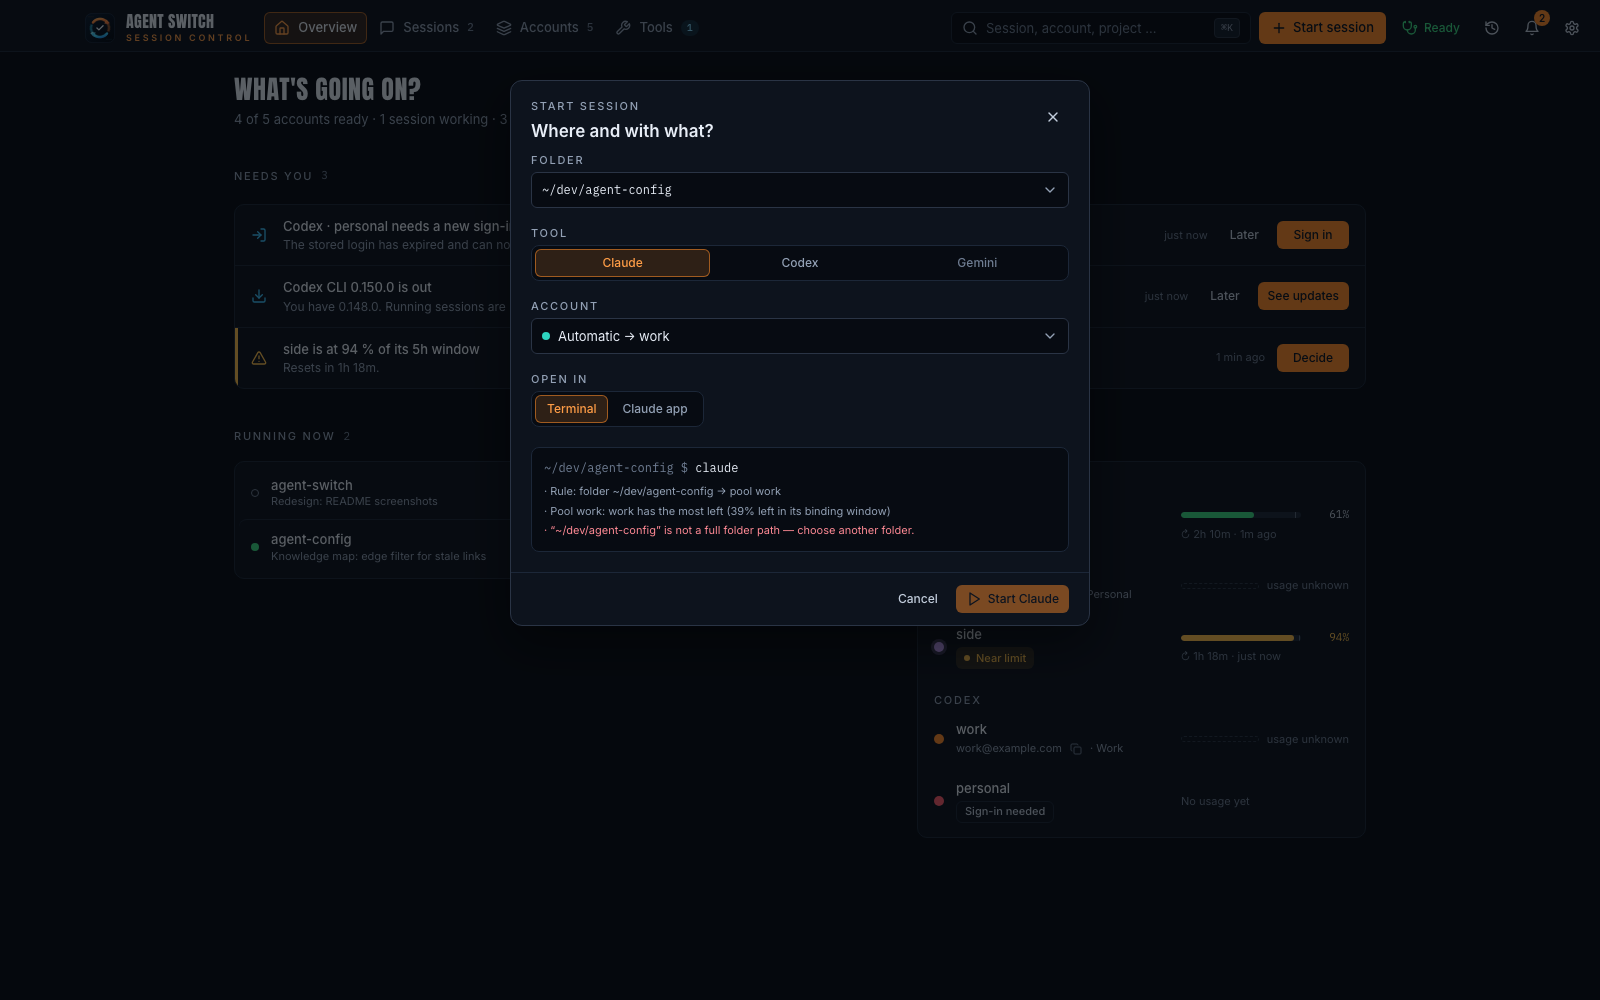
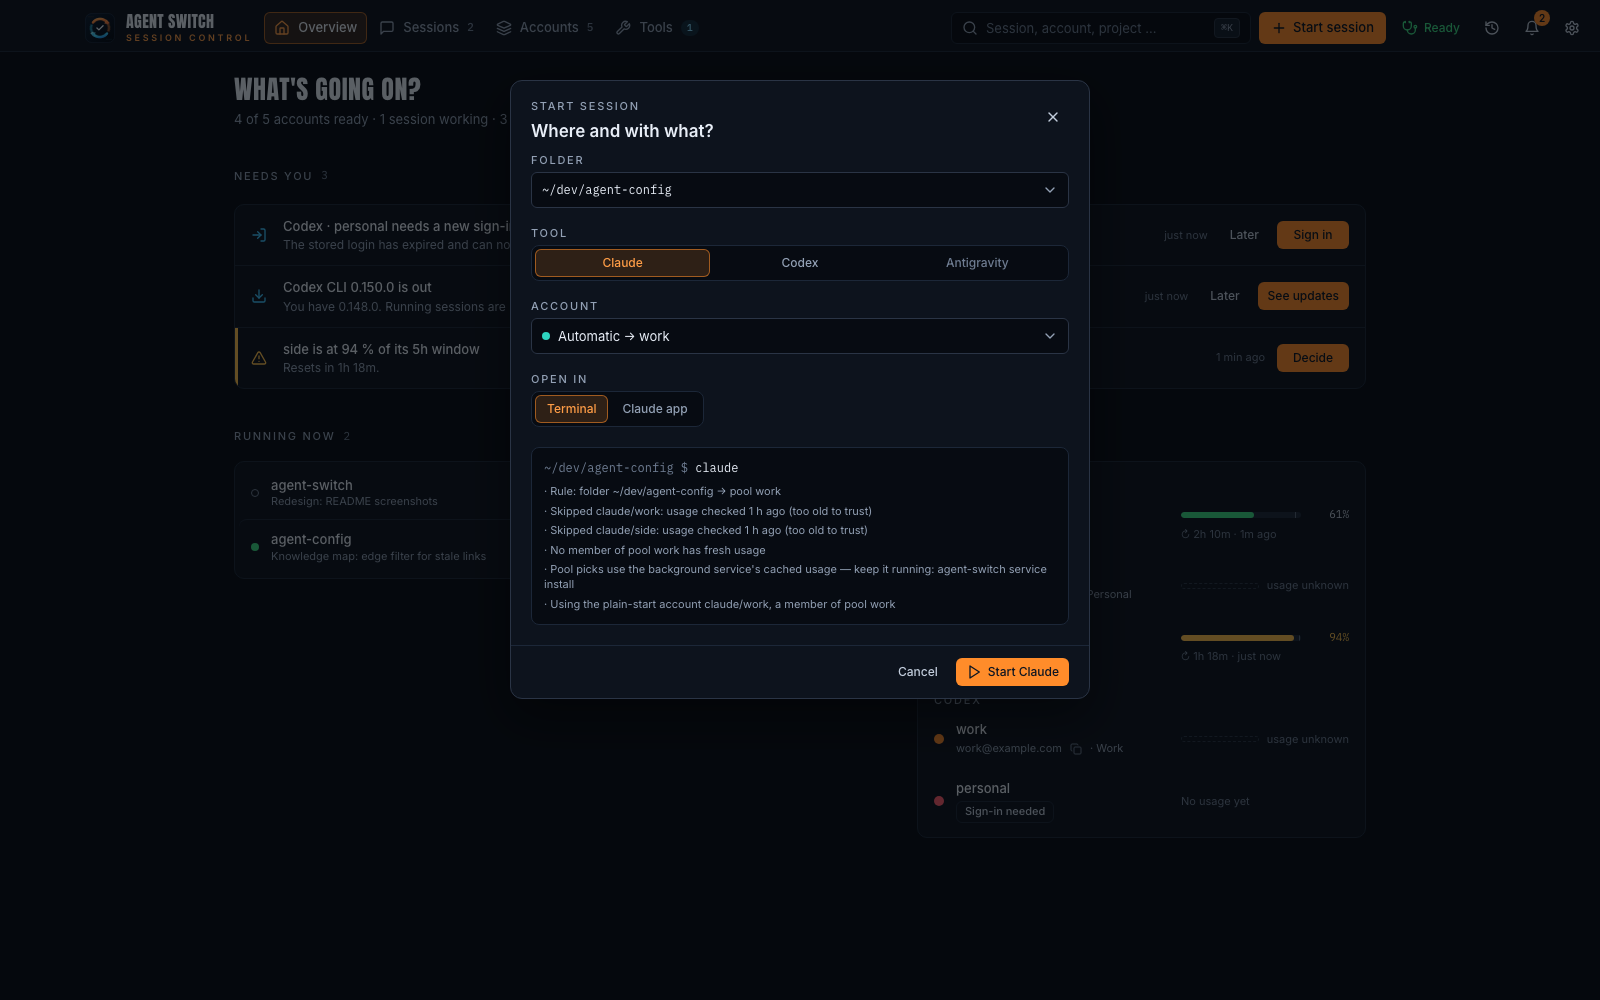
docs: pool refusal, shared default login, update and service, PowerShell profile; screenshots without the false folder-path error

Changed region(s): [[0.3438, 0.496, 0.6875, 0.713], [0.5938, 0.248, 0.625, 0.279]]

diff --git a/starlight/src/content/docs/reference/cli.md b/starlight/src/content/docs/reference/cli.md
@@ -26,7 +26,7 @@ agent-switch use work --provider codex
 | `add <name>` | `[--provider P] [--browser B]` | Create a profile and sign it in with the provider's own sign-in (`claude auth login`, `codex login`); Claude's first-run setup screens are skipped. `--browser` opens Claude's sign-in in that browser (see `browsers`). An unfinished sign-in keeps the profile and exits `1`; finish it with `login`. |
 | `login <name>` | `[--provider P] [--browser <id>]` | Sign an existing profile in again with the provider's own sign-in (`claude auth login`, `codex login`; Antigravity: `agy` prompts on start). Exits non-zero unless a stored login is back afterwards. Use it when `auth-status` says `sign-in-needed`. `--browser` opens the Claude sign-in in that browser (ids from `browsers`; macOS and Linux). Codex opens the system default itself — its printed link works in any browser. |
 | `browsers` | `[--json]` | Browsers `login --browser` can open: installed apps on macOS, binaries on PATH on Linux, none on Windows. |
-| `import <name>` | `[--provider P]` | Migrate the default install into a profile — no re-login. |
+| `import <name>` | `[--provider P]` | Migrate the default install into a profile — no re-login. When the default install's credential is seeded, the profile shares one login with it: agent-switch marks it, never refreshes it (whichever side refreshes first signs the other out) and never starts it by balancing; `doctor` names it, and `login <name>` gives it its own login and clears the mark. |
 | `use <name>` | `[--provider P]` | Set the active profile for a provider. |
 | `deactivate` | `[--provider P]` | Clear the active profile — new sessions fall back to the default install. |
 | `remove` / `rm <name>` | `[--provider P] [--force] [--yes]` | Delete the profile, its Claude keychain entry, and prune mappings. Refuses if active, live, carrying an active `rebind`, or if its account is currently borrowed by another profile's `rebind`, without `--force` (restore first with `rebind --restore --profile <holder>`). With `--force`: a rebind on this profile is dropped (stashed Keychain credentials deleted, the borrowed login handed back to its own profile); a profile borrowing this account is restored to its own login first — if that restore refuses, nothing is removed. Asks for confirmation on a terminal; `--yes` skips it. Off a terminal it proceeds as before and notes on stderr that `--yes` makes it explicit. |
@@ -43,7 +43,7 @@ Precedence: **directory mapping (nearest ancestor) > active profile > default.**
 | Command | Args / flags | What it does |
 | --- | --- | --- |
 | `run <name> [-- passthrough…]` | `[--provider P] [--tmux] [--force] [--cwd DIR]` | Launch the provider CLI on a profile (one-shot, parallel). `--cwd` starts it in that folder. `--tmux` wraps it in a managed tmux session (POSIX). `--force` overrides the [single-load guard](#single-load-guard). Args after `--` pass through, e.g. `run work -- --resume`. |
-| `dir` | `[--provider P] [--guard] [--json] [--plain]` | Resolve the config dir for the current directory: a folder rule first; without one, the start is balanced across every enabled account, and only then the active profile. Balancing (also for a rule that points at a pool) picks the account that would lose the most at its next reset — the rest of its longest window divided by the hours until that window resets — on usage checked within 10 minutes; stale, unknown, signed-out, disabled and at-limit accounts (any window at its protection threshold) are skipped, under `guard block` so is one that already has a live session. Accounts within 5 % of each other are level: the active profile wins a level tie (then one without a live session); with none left the active profile is used. `--plain` ignores folder rules (what a start outside any rule would do). No network call is made: the usage comes from the cache the background service writes (`service install`; it refreshes every enabled account every 5 minutes) or the desktop app's refresh — without either, starts fall back to the active profile. `--json` prints `{profile, configDir, why[]}`. Machine-consumed by the shell wrapper. With `--guard`, also runs the [single-load guard](#single-load-guard): the path stays on stdout, the guard writes to stderr and exits `86` on a refusal. |
+| `dir` | `[--provider P] [--guard] [--json] [--plain]` | Resolve the config dir for the current directory: a folder rule first; without one, the start is balanced across every enabled account, and only then the active profile. Balancing (also for a rule that points at a pool) picks the account that would lose the most at its next reset — the rest of its longest window divided by the hours until that window resets — on usage checked within 10 minutes; stale, unknown, signed-out, disabled and at-limit accounts (any window at its protection threshold) are skipped, under `guard block` so is one that already has a live session. Accounts within 5 % of each other are level: the active profile wins a level tie (then one without a live session); with none left the active profile is used. A rule that points at a pool never leaves the pool: with no fresh member it takes the active profile if that is a member, else the first usable member; when the pool no longer exists or has no usable member the start is refused (exit `86`, the reason on stderr, `blocked` in `--json`). `--plain` ignores folder rules (what a start outside any rule would do). No network call is made: the usage comes from the cache the background service writes (`service install`; it refreshes every enabled account every 5 minutes) or the desktop app's refresh — without either, starts fall back to the active profile. `--json` prints `{profile, configDir, why[], blocked?}`. Machine-consumed by the shell wrapper. With `--guard`, also runs the [single-load guard](#single-load-guard): the path stays on stdout, the guard writes to stderr and exits `86` on a refusal. |
 | `guard [block\|warn\|off]` | `[--json]` | Read or set the [single-load guard](#single-load-guard) policy. The bare form also lists which profiles are loaded right now. |
 | `map <name\|pool:<id>> [dir]` | `[--provider P]` | Map a directory (default: CWD) to a profile or to a [pool](#pools). |
 | `map --pause\|--resume [dir]` | `[--provider P]` | Pause a mapping without removing it — it stays in `mappings` (`paused: true` in `--json`, `[paused]` in text) but resolution skips it — or resume it. Re-mapping a paused folder keeps it paused. |
@@ -213,11 +213,11 @@ agent-switch tooling notes --json          # structured blocks, for scripting
 | `hooks install\|uninstall\|status [profile]` | — | Manage lifecycle push-hooks in Claude `settings.json` (additive, share-aware). |
 | `service run\|start\|stop\|status\|install\|uninstall` | — | Background usage daemon. `install` wires launchd / systemd-user / Task Scheduler autostart. |
 | `check-update` / `check-updates` | `[--json]` | Compare the running version against the latest GitHub release. |
-| `update` / `upgrade` | — | Self-update via `npm install -g @latest`. |
+| `update` / `upgrade` | — | Self-update via `npm install -g @latest`. Afterwards it keeps the background service on the new version: an installed service of this CLI is re-installed (and so restarted); with none installed it asks in a terminal whether to install it, and off a terminal (the desktop app's update) it only prints a hint. A service that runs another agent-switch build is left alone. |
 | `shellenv` | `[--shell zsh\|bash\|fish\|powershell]` | Print the shell integration snippet. |
-| `shellenv install` | `[--shell S] [--json]` | Add the loader line to the shell's startup file (`~/.zshrc`; bash: `~/.bash_profile` on macOS, `~/.bashrc` elsewhere; fish: `~/.config/fish/config.fish`; PowerShell: `Documents/PowerShell/Microsoft.PowerShell_profile.ps1`). Does nothing when any of those already loads it. `--json` prints `{shell, file, alreadyInstalled}`. |
+| `shellenv install` | `[--shell S] [--json]` | Add the loader line to the shell's startup file (`~/.zshrc`; bash: `~/.bash_profile` on macOS, `~/.bashrc` elsewhere; fish: `~/.config/fish/config.fish`; PowerShell: the `$PROFILE` the shell reports — `pwsh`, then Windows PowerShell — falling back to `Documents/PowerShell/Microsoft.PowerShell_profile.ps1`). Does nothing when any of those already loads it. `--json` prints `{shell, file, alreadyInstalled}`. |
 | `doctor` | `[--json]` | Per-OS / per-provider self-check: CLI on PATH, shell integration, start at login, API-key env vars that override profile logins, Antigravity support on this OS, logins, guard. `--json` prints `{readiness, platform, checks[{id, status, title, detail, fix?}]}`. Exits `1` on a hard error. |
-| `auth-status` | `[--provider P] [--json]` | Per-profile login state from the provider's own store (`connected`, `expiring`, `sign-in-needed`, `unknown`) with `expiresAt`, `lastRefreshAt`, `keptFreshBy`. Never prints a token. |
+| `auth-status` | `[--provider P] [--json]` | Per-profile login state from the provider's own store (`connected`, `expiring`, `sign-in-needed`, `unknown`) with `expiresAt`, `lastRefreshAt`, `keptFreshBy` — the background service for Claude profiles it polls, "only you, by using it" for a profile sharing the default install's login. Never prints a token. |
 | `activity` | `[--limit N] [--json]` (`N` ≥ 1) | What agent-switch itself did and why (switch, rebind, login, redeem, autostart, guard, update, protection, pool, remove). Kept to the newest 2000 entries; never contains a token. |
 | `uninstall` | `[--force]` | Remove all agent-switch data, keychain entries, and the daemon. Does **not** touch provider installs. |
 | `help` / `--help` / `-h` | — | Show usage. |

diff --git a/README.md b/README.md
@@ -74,7 +74,7 @@ $ asw             # list all profiles, the starred one marked *
 - **Disable instead of delete** — a disabled account keeps its login and history but is never picked and not polled; refresh it by hand when you want to look.
 - **One prompt history** — with the shared setup (`agent-switch share on`, the app's default) ↑ and Ctrl+R in Claude Code find your old prompts on every account.
 - **Explicit switching only** — a running session moves to another account only when you choose it (live switch, take over or hand off). Nothing switches on its own.
-- **Balanced starts, pools and project rules** — a plain `claude` with no folder rule is spread across your enabled accounts: it starts on the one that would lose the most at its next reset (its rest divided by the hours until its weekly window resets), so every account gets used up by its reset instead of one running dry while another resets unused. An account at its protection limit is never picked; when the best accounts are level, or nothing can be weighed, the account set for plain starts (the star) is used. A folder can also point at one account, or at a pool that is balanced the same way. `dir --json` tells you why. The weighing uses cached usage only — written by the background service (`agent-switch service install`, which refreshes every enabled account every 5 minutes) or by the desktop app's own refresh; usage older than 10 minutes is not trusted and `dir --json` says so. Under `guard block` an account that already has a live session is skipped.
+- **Balanced starts, pools and project rules** — a plain `claude` with no folder rule is spread across your enabled accounts: it starts on the one that would lose the most at its next reset (its rest divided by the hours until its weekly window resets), so every account gets used up by its reset instead of one running dry while another resets unused. An account at its protection limit is never picked; when the best accounts are level, or nothing can be weighed, the account set for plain starts (the star) is used. A folder can also point at one account, or at a pool that is balanced the same way — a pool start never leaves the pool: without fresh usage it still takes a member, and a pool that is gone or has no usable member refuses the start. `dir --json` tells you why. The weighing uses cached usage only — written by the background service (`agent-switch service install`, which refreshes every enabled account every 5 minutes) or by the desktop app's own refresh; usage older than 10 minutes is not trusted and `dir --json` says so. Under `guard block` an account that already has a live session is skipped.
 - **Health, activity, sign-in state** — `doctor --json`, `activity`, `auth-status` — readouts without tokens.
 - **Switch, the desktop pet** — introduces itself once, on the very first start. Never again.
 

diff --git a/starlight/src/content/docs/guides/mappings-and-sharing.md b/starlight/src/content/docs/guides/mappings-and-sharing.md
@@ -30,7 +30,7 @@ agent-switch mappings
 
 ### Resolution precedence
 
-When resolving which account applies, agent-switch checks sources in order and uses the first match. A directory mapping on the **nearest ancestor** of your CWD wins over the active profile, which wins over the default install.
+When resolving which account applies, agent-switch checks sources in order and uses the first match. A directory mapping on the **nearest ancestor** of your CWD wins over the active profile, which wins over the default install. A mapping that points at a **pool** never leaves it: without fresh usage it still starts on a member, and when the pool is gone or has no usable member the start is refused with the reason instead of running on another account.
 
 ```mermaid
 flowchart TD
